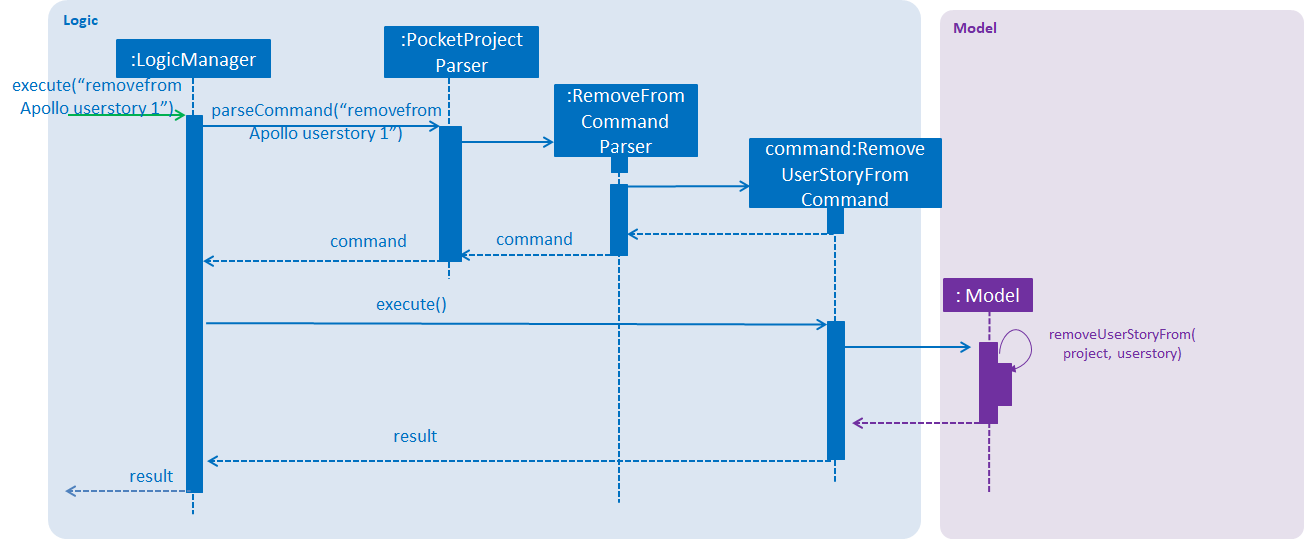
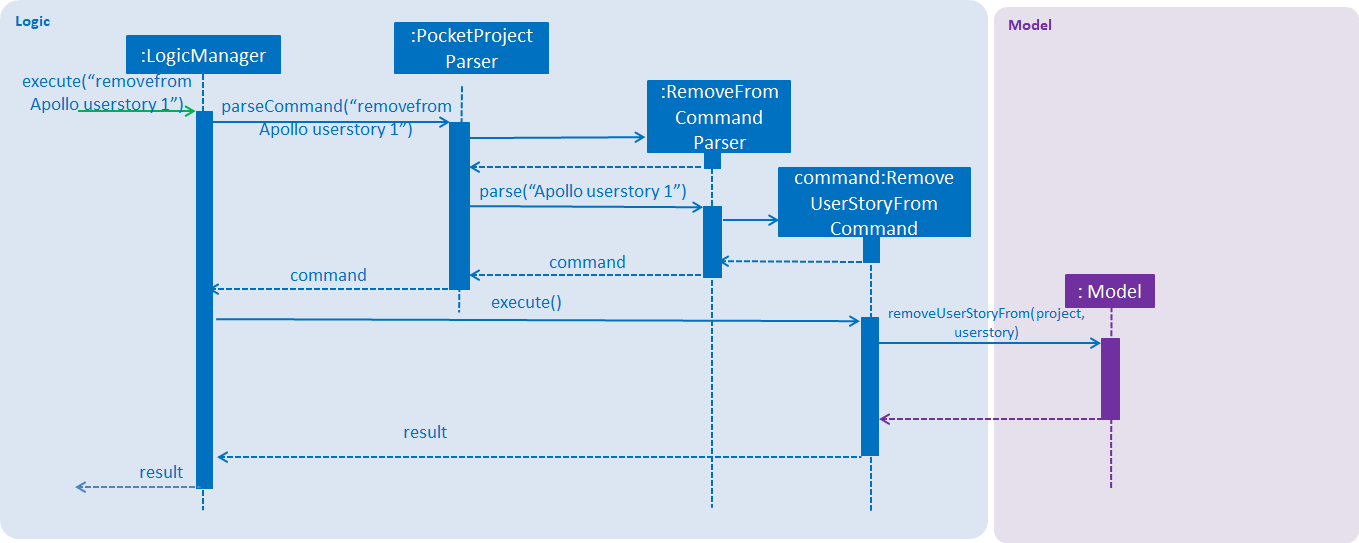
Rebuild pages at 4ed7ed75b276666fc29b9127d9ec02c70aba9c6c

Changed region(s): [[0.0, 0.0, 1.0, 1.0], [0.1529, 0.7675, 0.6422, 0.8561]]

diff --git a/team/jeffgan96.html b/team/jeffgan96.html
@@ -318,6 +318,91 @@ to our Developer&#8217;s Guide: [<a href="https://github.com/cs2103-ay1819s2-w10
 <div class="title">Figure 4. Structure of the UI Component</div>
 </div>
 <div class="sect4">
+<h5 id="add-user-story-to-project-command"><a class="link" href="#add-user-story-to-project-command">Add user story to project command</a></h5>
+<div class="ulist">
+<ul>
+<li>
+<p><code>addto PROJECT_NAME userstory i/STORY_IMPORTANCE STORY</code>&#8201;&#8212;&#8201;adds the user story specified in <code>STORY</code> to the list of user stories in the project with name <code>PROJECT_NAME</code></p>
+</li>
+</ul>
+</div>
+<div class="paragraph">
+<p>This operation uses the <code>Model#addUserStoryTo(Project, UserStory)</code> and the <code>Model#getProjectWithName(Name)</code> methods in the <code>Model</code> interface.
+It takes in the project and user story as arguments. After checking that the <code>PROJECT_NAME</code> is valid and <code>STORY</code> is created, the <code>AddUserStoryToCommand#execute()</code> method is executed to add the <code>STORY</code> into the project.</p>
+</div>
+<div class="paragraph">
+<p>Given below is an example usage scenario and how the addition of user story to a project behaves at each step.</p>
+</div>
+<div class="paragraph">
+<p>Step 1. The user enters the command <code>list project'. The app displays the list of projects in the Pocket Project by executing the `list project</code> command.</p>
+</div>
+<div class="paragraph">
+<p>Step 2. The user enters <code>addto Apollo userstory i/1 as a user i want to view user stories so that i can track them</code>. The <code>LogicManager</code> passes the string into the <code>PocketProjectParser</code> which detects it as a <code>AddToCommand</code>. It then passes the string to the <code>AddToCommandParser</code>
+which creates an <code>AddUserStoryTo</code> command. The <code>LogicManager</code> then checks for the validity of the user story and executes the <code>Model#addUserStoryTo(Project, UserStory)</code> method to add the new user story.</p>
+</div>
+<table class="tableblock frame-all grid-all spread">
+<colgroup>
+<col style="width: 35%;">
+<col style="width: 65%;">
+</colgroup>
+<tbody>
+<tr>
+<td class="tableblock halign-left valign-top"><p class="tableblock"><span class="image"><img src="../images/ug-exclamation.png" alt="ug exclamation" width="60"></span></p></td>
+<td class="tableblock halign-left valign-top"><p class="tableblock">The <code>PROJECT_NAME</code> entered must be valid and the <code>STORY</code> added needs to be of the correct format. Else, exceptions would be thrown.</p></td>
+</tr>
+</tbody>
+</table>
+</div>
+<div class="sect4">
+<h5 id="remove-user-story-from-project-command"><a class="link" href="#remove-user-story-from-project-command">Remove user story from project command</a></h5>
+<div class="ulist">
+<ul>
+<li>
+<p><code>removefrom PROJECT_NAME userstory STORY_INDEX</code>&#8201;&#8212;&#8201;removes the user story at index <code>STORY_INDEX</code> in the list of user stories in the project named <code>PROJECT_NAME</code>.</p>
+</li>
+</ul>
+</div>
+<div class="paragraph">
+<p>This operation uses the <code>Model#removeUserStoryFrom(Project, UserStory)</code> and the <code>Model#getProjectWithName(Name)</code> methods in the <code>Model</code> interface.
+It does not require the user story as an argument since the corresponding user story object can be found by the specified <code>STORY_INDEX</code>. After checking that the <code>PROJECT_NAME</code> and user story is valid, the <code>AddUserStoryToCommand#execute()</code> method is executed to remove the user story from the project.</p>
+</div>
+<div class="paragraph">
+<p>The sequence diagram for the execution of the removing of a user story from a project is as follows:</p>
+</div>
+<div class="imageblock">
+<div class="content">
+<img src="../images/remove_user_story_from_sequence_diagram.png" alt="remove user story from sequence diagram" width="1000">
+</div>
+<div class="title">Figure 5. Sequence diagram showing execution of <code>removefrom Apollo userstory 1</code>.</div>
+</div>
+<div class="paragraph">
+<p>Given below is an example usage scenario and how the removal of a user story behaves at each step.</p>
+</div>
+<div class="paragraph">
+<p>Step 1. The user enters the command <code>view project Apollo'. The app displays the list of details of the project named "Apollo" by executing the `view</code> command.</p>
+</div>
+<div class="paragraph">
+<p>Step 2. The user can use the buttons in the details panel to scroll to the panel showing the user stories.</p>
+</div>
+<div class="paragraph">
+<p>Step 3. The user enters <code>removefrom Apollo userstory 1</code>. The <code>LogicManager</code> passes the string into the <code>PocketProjectParser</code> which detects it as a <code>RemoveFromCommand</code>.
+It then passes the string to the <code>RemoveFromCommandParser</code> which creates an <code>RemoveUserStoryFrom</code> command. The <code>LogicManager</code> then checks for the validity of the user
+story and project and executes the <code>Model#removeUserStoryFrom(Project, UserStory)</code> method to remove the user story.</p>
+</div>
+<table class="tableblock frame-all grid-all spread">
+<colgroup>
+<col style="width: 35%;">
+<col style="width: 65%;">
+</colgroup>
+<tbody>
+<tr>
+<td class="tableblock halign-left valign-top"><p class="tableblock"><span class="image"><img src="../images/ug-exclamation.png" alt="ug exclamation" width="60"></span></p></td>
+<td class="tableblock halign-left valign-top"><p class="tableblock">The <code>PROJECT_NAME</code> entered must be valid and exists in the app. The <code>STORY_INDEX</code> given must refer to some existing user story. If not, exceptions would be thrown during the execution of the command.</p></td>
+</tr>
+</tbody>
+</table>
+</div>
+<div class="sect4">
 <h5 id="edit-user-story-command"><a class="link" href="#edit-user-story-command">Edit user story command</a></h5>
 <div class="ulist">
 <ul>
@@ -338,7 +423,7 @@ before the <code>Project#setUserStory(UserStory, UserStory)</code> method is cal
 <div class="content">
 <img src="../images/edit_user_story_sequence_diagram.png" alt="edit user story sequence diagram" width="1000">
 </div>
-<div class="title">Figure 5. Sequence diagram showing execution of <code>edit project Apollo userstory 1 as a user I want to login</code>.</div>
+<div class="title">Figure 6. Sequence diagram showing execution of <code>edit project Apollo userstory 1 as a user I want to login</code>.</div>
 </div>
 <div class="paragraph">
 <p>Given below is an example usage scenario and how the editing of a user story behaves at each step.</p>
@@ -387,7 +472,7 @@ It takes in as arguments the new status of the user story. The <code>UpdateUserS
 <div class="content">
 <img src="../images/update_user_story_sequence_diagram.png" alt="update user story sequence diagram" width="1000">
 </div>
-<div class="title">Figure 6. Sequence diagram showing execution of <code>update Apollo userstory 1 ongoing</code>.</div>
+<div class="title">Figure 7. Sequence diagram showing execution of <code>update Apollo userstory 1 ongoing</code>.</div>
 </div>
 <div class="paragraph">
 <p>Given below is an example usage scenario of how the updating of a user story behaves at each step.</p>
@@ -477,4 +562,4 @@ This will be made available by widening the range of keywords the parser is able
 </div>
 </div>
 </div>
-</div></div><div id="footer"><div class="container"><div id="footer-text">Last updated 2019-04-15 09:17:21 UTC</div></div></div></body></html>
+</div></div><div id="footer"><div class="container"><div id="footer-text">Last updated 2019-04-15 09:18:35 UTC</div></div></div></body></html>

diff --git a/team/johndoe.html b/team/johndoe.html
@@ -254,4 +254,4 @@ The <code>redo</code> command fails as there are no <code>undo</code> commands e
 <p><em>{Optionally, you may include other projects in your portfolio.}</em></p>
 </div>
 </div>
-</div></div><div id="footer"><div class="container"><div id="footer-text">Last updated 2019-04-15 09:17:21 UTC</div></div></div></body></html>
+</div></div><div id="footer"><div class="container"><div id="footer-text">Last updated 2019-04-15 09:18:35 UTC</div></div></div></body></html>

diff --git a/LearningOutcomes.html b/LearningOutcomes.html
@@ -549,4 +549,4 @@ When the value represented by the <code>ObservableValue</code> changes, it will 
 </div>
 </div>
 </div>
-</div></div><div id="footer"><div class="container"><div id="footer-text">Last updated 2019-04-15 09:17:21 UTC</div></div></div></body></html>
+</div></div><div id="footer"><div class="container"><div id="footer-text">Last updated 2019-04-15 09:18:35 UTC</div></div></div></body></html>

diff --git a/team/dehui333.html b/team/dehui333.html
@@ -472,4 +472,4 @@ It would be inappropriate to put these methods under the command class or the mo
 </div>
 </div>
 </div>
-</div></div><div id="footer"><div class="container"><div id="footer-text">Last updated 2019-04-15 09:17:21 UTC</div></div></div></body></html>
+</div></div><div id="footer"><div class="container"><div id="footer-text">Last updated 2019-04-15 09:18:35 UTC</div></div></div></body></html>

diff --git a/team/ditan96.html b/team/ditan96.html
@@ -518,4 +518,4 @@ as project tasks only need to be in direct contact with milestones but not neces
 </div>
 </div>
 </div>
-</div></div><div id="footer"><div class="container"><div id="footer-text">Last updated 2019-04-15 09:17:21 UTC</div></div></div></body></html>
+</div></div><div id="footer"><div class="container"><div id="footer-text">Last updated 2019-04-15 09:18:35 UTC</div></div></div></body></html>

diff --git a/team/jothipillay.html b/team/jothipillay.html
@@ -190,4 +190,4 @@ useful in a software engineering project context. [<a href="https://github.com/c
 </div>
 </div>
 </div>
-</div></div><div id="footer"><div class="container"><div id="footer-text">Last updated 2019-04-15 09:17:21 UTC</div></div></div></body></html>
+</div></div><div id="footer"><div class="container"><div id="footer-text">Last updated 2019-04-15 09:18:35 UTC</div></div></div></body></html>

diff --git a/team/shunnizuka.html b/team/shunnizuka.html
@@ -466,4 +466,4 @@ Hence it is more in line with OOP principles. There will also be less clutter in
 </div>
 </div>
 </div>
-</div></div><div id="footer"><div class="container"><div id="footer-text">Last updated 2019-04-15 09:17:21 UTC</div></div></div></body></html>
+</div></div><div id="footer"><div class="container"><div id="footer-text">Last updated 2019-04-15 09:18:35 UTC</div></div></div></body></html>

diff --git a/UsingGradle.html b/UsingGradle.html
@@ -255,4 +255,4 @@ See <code>build.gradle</code> &#8594; <code>allprojects</code> &#8594; <code>dep
 </ul>
 </div>
 </div>
-</div></div><div id="footer"><div class="container"><div id="footer-text">Last updated 2019-04-15 09:17:21 UTC</div></div></div></body></html>
+</div></div><div id="footer"><div class="container"><div id="footer-text">Last updated 2019-04-15 09:18:35 UTC</div></div></div></body></html>

diff --git a/UsingNetlify.html b/UsingNetlify.html
@@ -123,4 +123,4 @@ The publish directory is the directory in which the built HTML documentation res
 </ol>
 </div>
 </div>
-</div></div><div id="footer"><div class="container"><div id="footer-text">Last updated 2019-04-15 09:17:21 UTC</div></div></div></body></html>
+</div></div><div id="footer"><div class="container"><div id="footer-text">Last updated 2019-04-15 09:18:35 UTC</div></div></div></body></html>

diff --git a/AboutUs.html b/AboutUs.html
@@ -102,4 +102,4 @@ We are a team based in the <a href="http://www.comp.nus.edu.sg">School of Comput
 <hr>
 </div>
 </div>
-</div></div><div id="footer"><div class="container"><div id="footer-text">Last updated 2019-04-15 09:17:21 UTC</div></div></div></body></html>
+</div></div><div id="footer"><div class="container"><div id="footer-text">Last updated 2019-04-15 09:18:35 UTC</div></div></div></body></html>

diff --git a/UsingCoveralls.html b/UsingCoveralls.html
@@ -96,4 +96,4 @@ If you have not set up Travis CI, see <a href="UsingTravis.html">UsingTravis.ado
 </ol>
 </div>
 </div>
-</div></div><div id="footer"><div class="container"><div id="footer-text">Last updated 2019-04-15 09:17:21 UTC</div></div></div></body></html>
+</div></div><div id="footer"><div class="container"><div id="footer-text">Last updated 2019-04-15 09:18:35 UTC</div></div></div></body></html>

diff --git a/ContactUs.html b/ContactUs.html
@@ -16,4 +16,4 @@
 <code>Dehui [at] <a href="mailto:e0203126@u.nus.edu">e0203126@u.nus.edu</a></code></p>
 </li>
 </ul>
-</div></div><div id="footer"><div class="container"><div id="footer-text">Last updated 2019-04-15 09:17:21 UTC</div></div></div></body></html>
+</div></div><div id="footer"><div class="container"><div id="footer-text">Last updated 2019-04-15 09:18:35 UTC</div></div></div></body></html>
